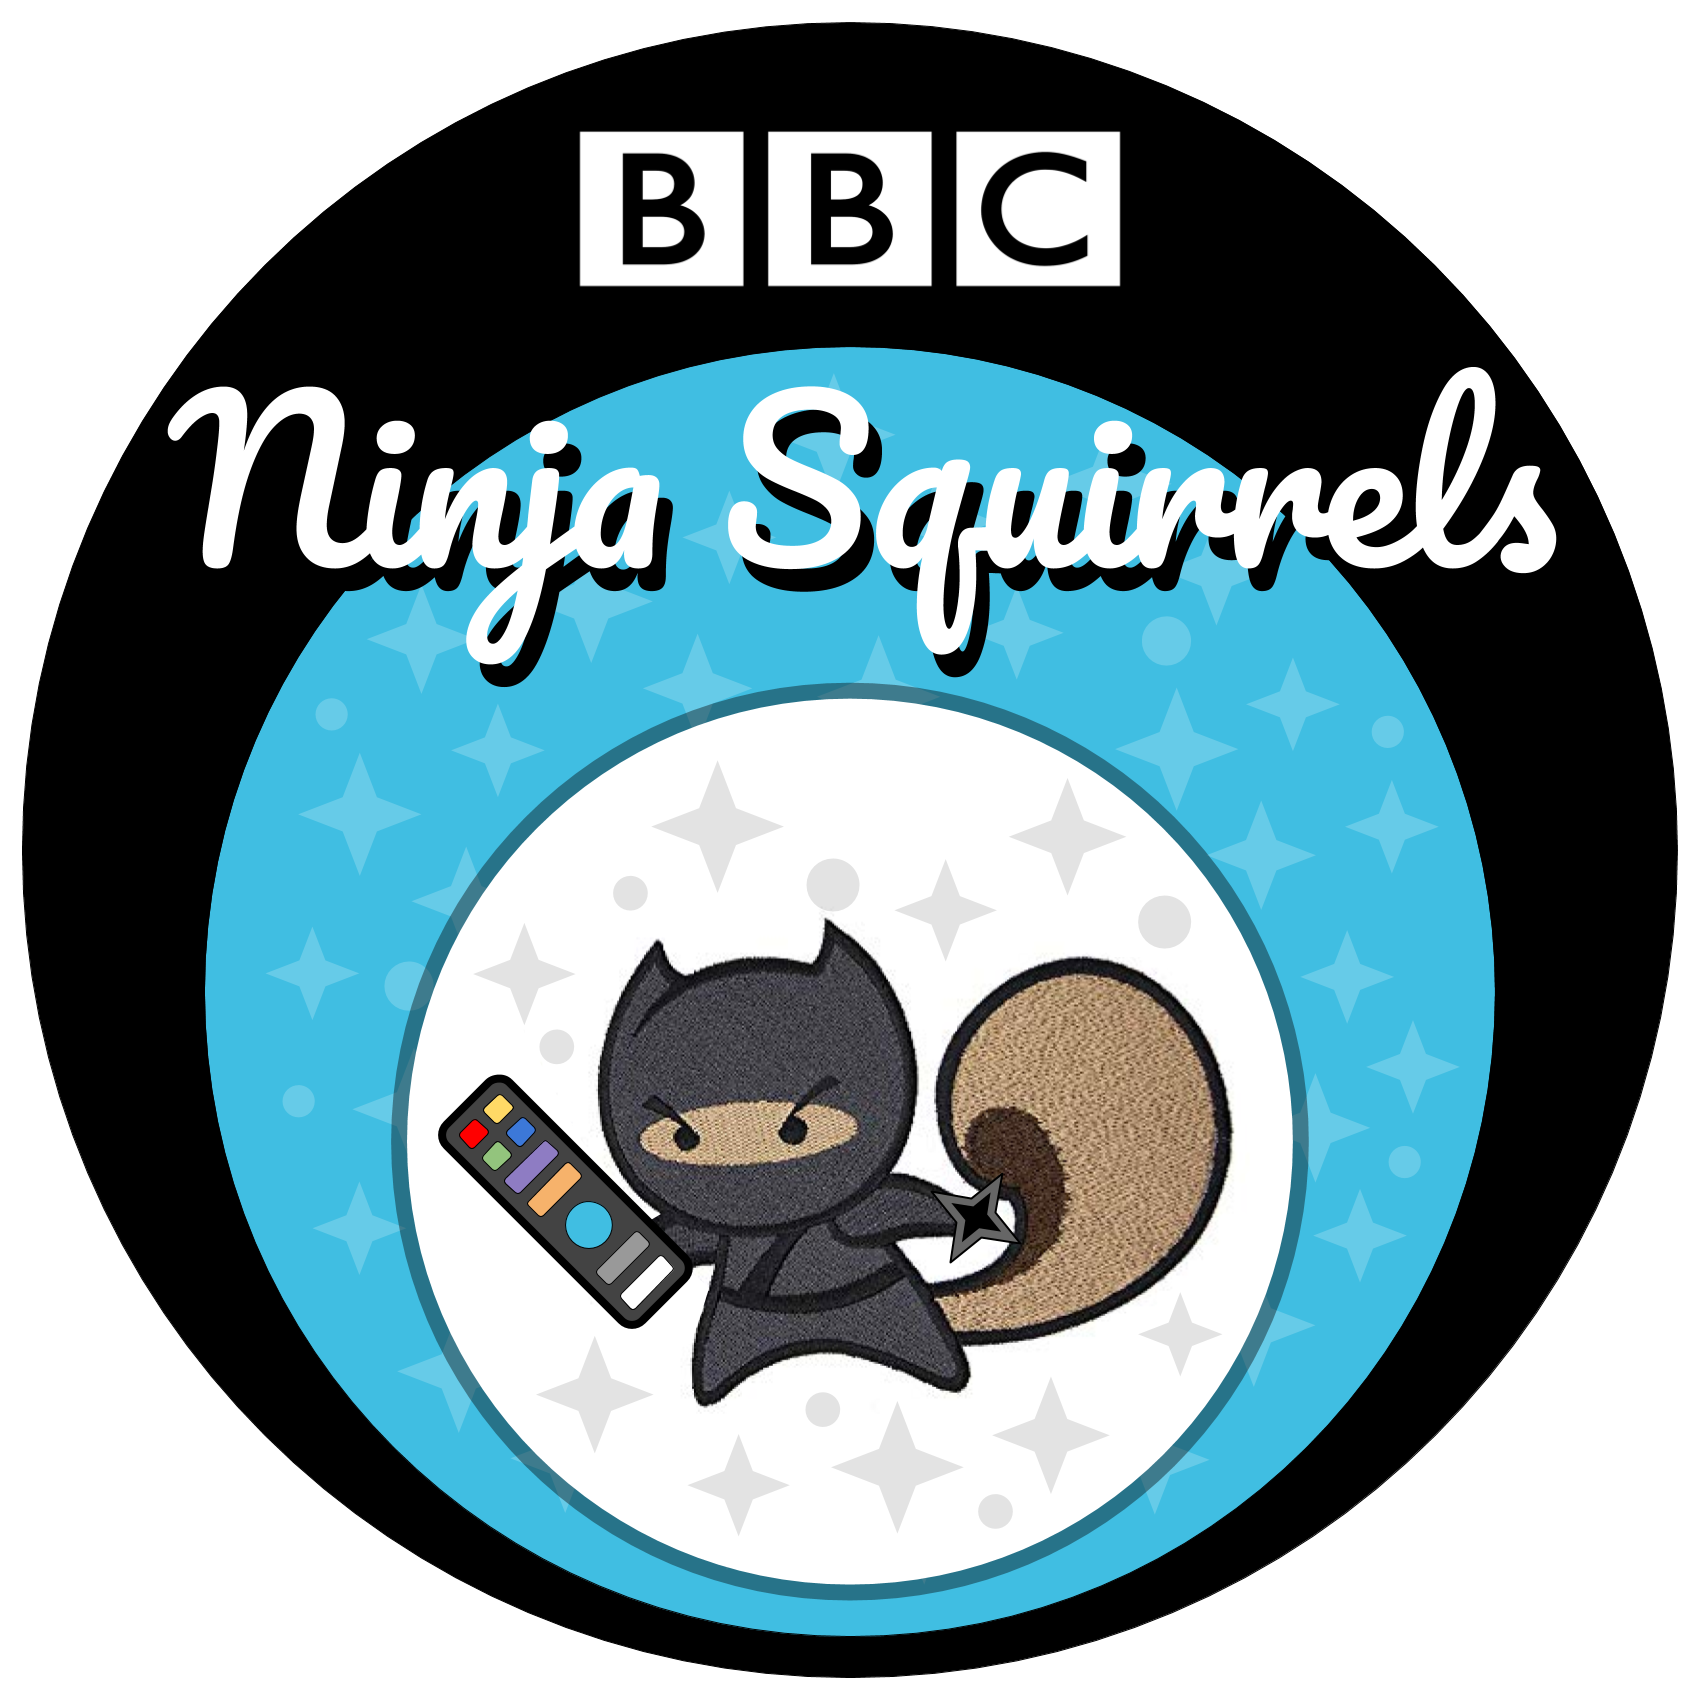
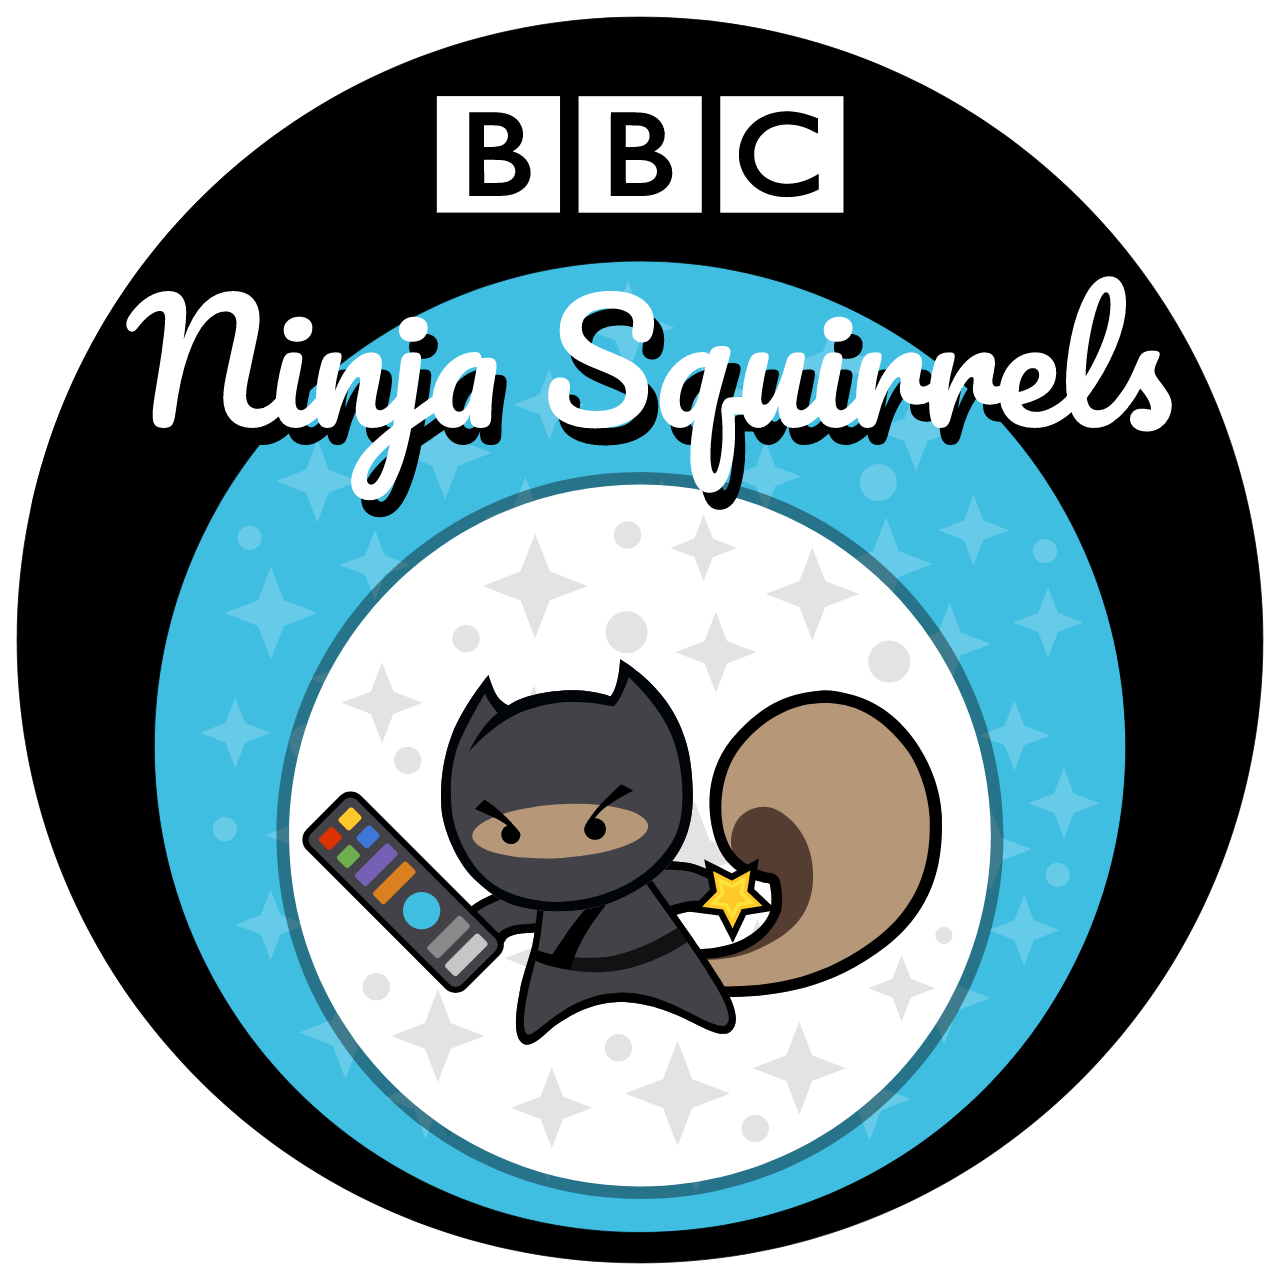
Render out all baked assets from SVG using new render harness

diff --git a/scripts/render.js b/scripts/render.js
@@ -45,7 +45,7 @@ const killProcessAfter5Seconds = async () => {
   setTimeout(() => {
     console.log('Kill process')
     process.exit(0)
-  }, 5000)
+  }, 1200)
 }
 
 const screenshotRunner = async () => {
@@ -53,6 +53,8 @@ const screenshotRunner = async () => {
   await renderImage({ width: 1280, height: 1280, isLandscape: true, uri: '/designer/render.html', file: 'Ninja-Squirrel.png' })
   await renderImage({ width: 64, height: 64, isLandscape: true, uri: '/designer/render.html', file: 'Ninja-Squirrel-64x64.png' })
   await renderImage({ width: 32, height: 32, isLandscape: true, uri: '/designer/render.html', file: 'Ninja-Squirrel-32x32.png' })
+  await renderImage({ width: 1280, height: 1280, isLandscape: true, uri: '/designer/render.html?svgFile=Ninja-Squirrel-on-White.svg', file: 'Ninja-Squirrel-on-White.png' })
+  await renderImage({ width: 1280, height: 1280, isLandscape: true, uri: '/designer/render.html?svgFile=BBC-Ninja-Squirrels.svg', file: 'BBC-Ninja-Squirrels.png' })
   await closeServer()
   killProcessAfter5Seconds()
 }

diff --git a/designer/render.html b/designer/render.html
@@ -4,7 +4,18 @@
   <title>Ninja Squirrels - Asset Renderer</title>
 </head>
 <body>
-  <img src="../svg/Ninja-Squirrel-Avatar.svg" class="svg" />
+  <script>
+    const urlParams = new URLSearchParams(document.location.search)
+    const svgFile = urlParams.get('svgFile') || `Ninja-Squirrel-Avatar.svg`
+
+    const img = document.createElement('img')
+    img.className = 'svg'
+    img.src = `../svg/${svgFile}`
+
+    document.body.append(img)
+
+  </script>
+  <img src="" class="svg" />
   <style>
     html, body, * {
       margin: 0;
